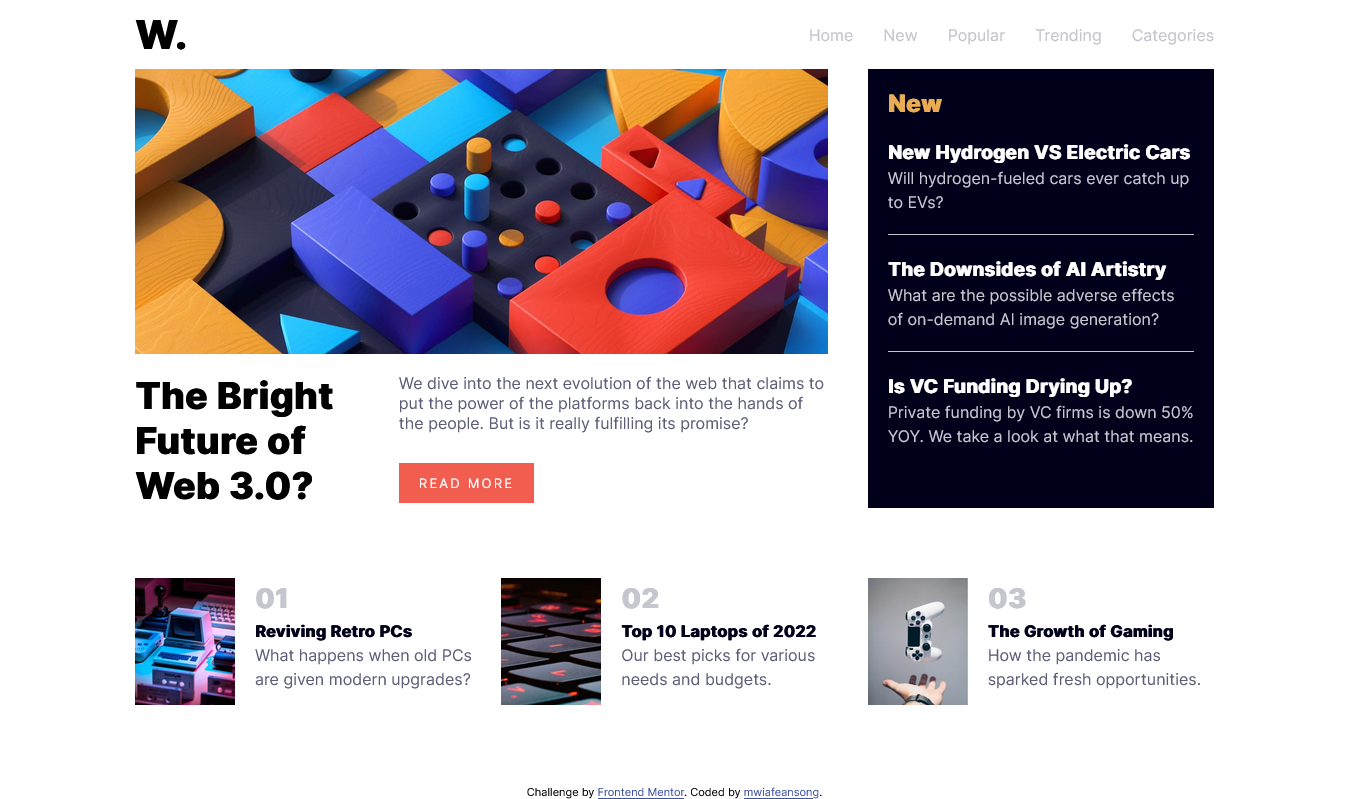
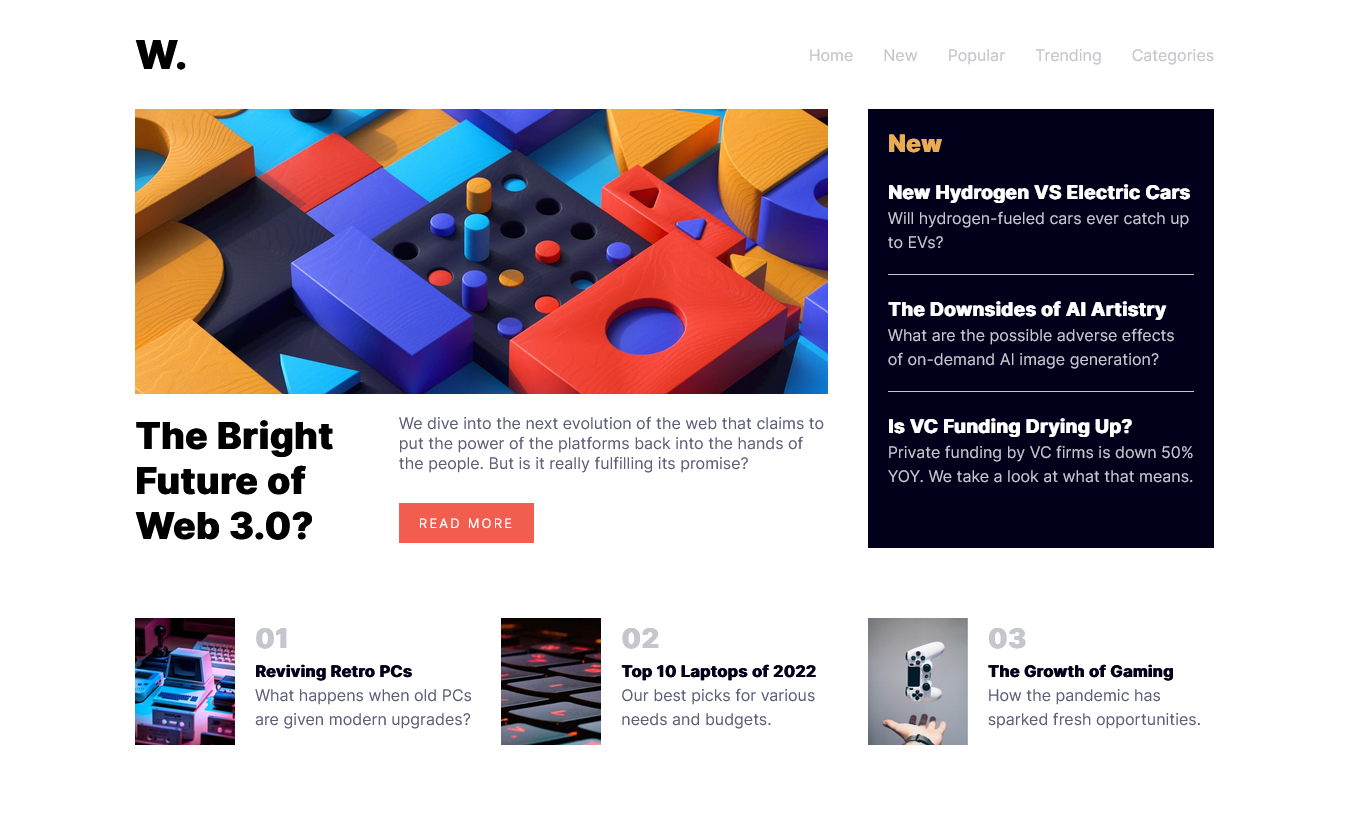
Remove footer

diff --git a/news-homepage-main/style.css b/news-homepage-main/style.css
@@ -50,7 +50,7 @@ header {
   justify-content: space-between;
   align-items: center;
   margin: 0 10%;
-  padding: 15px 0;
+  padding: 30px 0;
 }
 
 header h1 {
@@ -84,7 +84,7 @@ main {
   grid-template-columns: 2fr 1fr;
   column-gap: 40px;
   row-gap: 70px;
-  margin-bottom: 80px;
+  /* margin-bottom: 80px; */
   width: 80%;
   margin: 0 auto 80px auto;
 }
@@ -212,15 +212,6 @@ main {
   width: 100px;
   height: auto;
   object-fit: cover;
-}
-
-/* FOOTER */
-.attribution {
-  font-size: 11px;
-  text-align: center;
-}
-.attribution a {
-  color: hsl(228, 45%, 44%);
 }
 
 @media screen and (max-width: 700px) {

diff --git a/news-homepage-main/index.html b/news-homepage-main/index.html
@@ -99,13 +99,5 @@
         </div>
       </section>
     </main>
-    <footer class="attribution">
-      Challenge by
-      <a href="https://www.frontendmentor.io?ref=challenge" target="_blank"
-        >Frontend Mentor</a
-      >. Coded by
-      <a href="https://github.com/mwiafeansong" target="_blank">mwiafeansong</a
-      >.
-    </footer>
   </body>
 </html>
